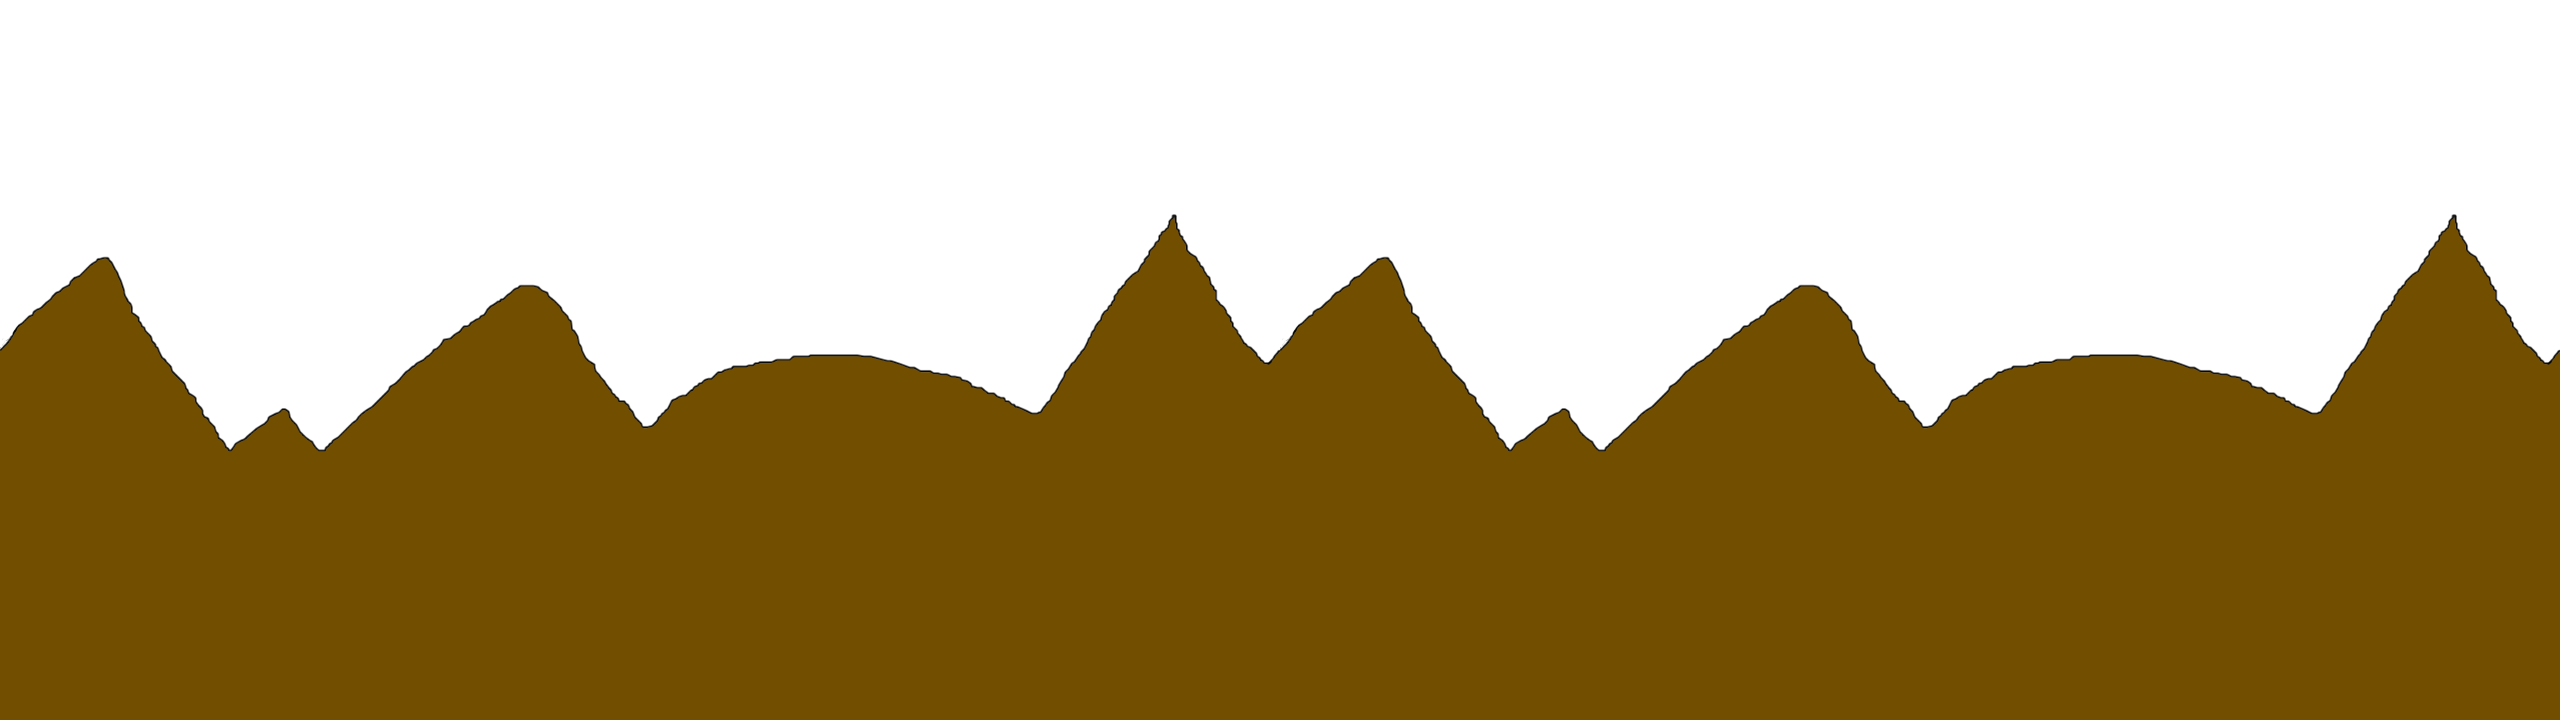
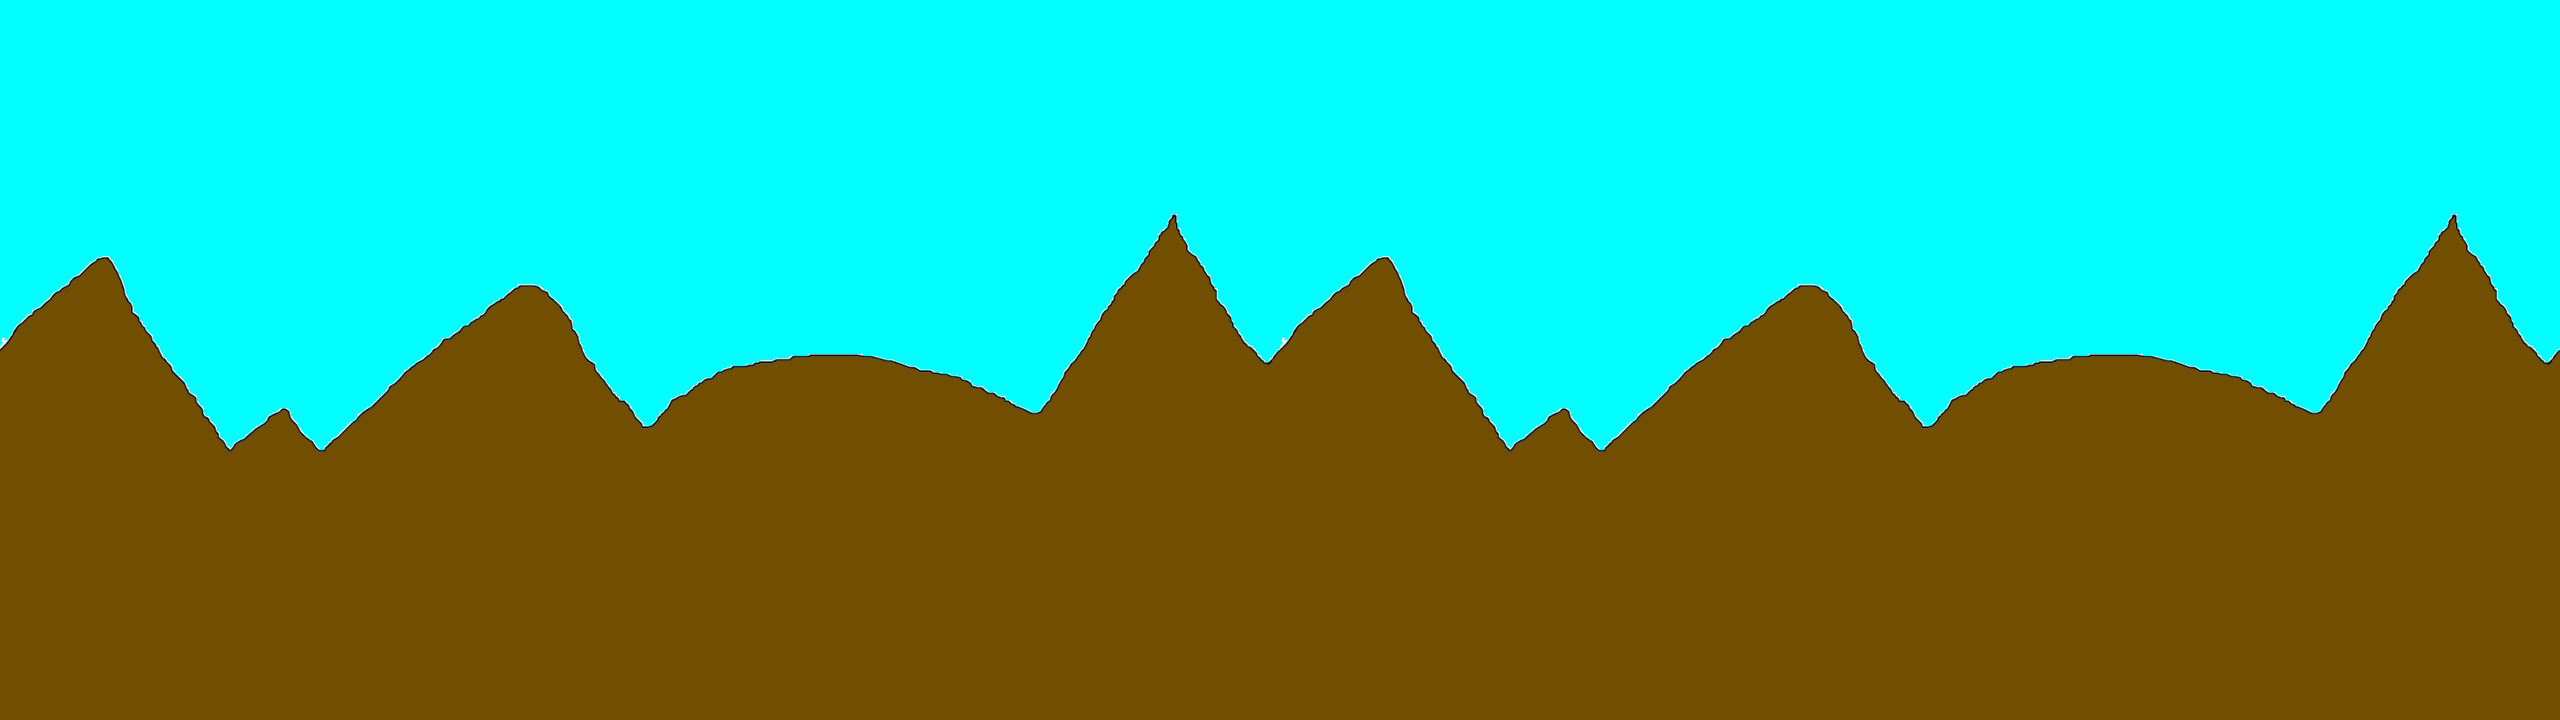
making proggress

diff --git a/sdl2test/Source.cpp b/sdl2test/Source.cpp
@@ -1,11 +1,14 @@
 #include <string>
 #include <iostream>
+#include <windows.h>
+#include <experimental/filesystem>
 #include <SDL.h>
 #include <SDL_image.h>
 #include <math.h>
+#include <vector>
 #include "res_path.h"
 #include "cleanup.h"
-
+namespace fs = std::experimental::filesystem::v1;
 using namespace std;
 
 Uint32 get_pixel32(SDL_Surface *surface, int x, int y)
@@ -35,7 +38,7 @@ SDL_Surface *ScaleSurface(SDL_Surface *Surface, Uint16 Width, Uint16 Height)
 	SDL_Surface *_ret = SDL_CreateRGBSurface(Surface->flags, Width, Height, Surface->format->BitsPerPixel,
 		Surface->format->Rmask, Surface->format->Gmask, Surface->format->Bmask, Surface->format->Amask);
 
-	double    _stretch_factor_x = (static_cast<double>(Width) / (static_cast<double>(Surface->w) / 2)),
+	double    _stretch_factor_x = (static_cast<double>(Width) / (static_cast<double>(Surface->w))),
 		_stretch_factor_y = (static_cast<double>(Height) / static_cast<double>(Surface->h));
 
 	for (Sint32 y = 0; y < Surface->h; y++) {
@@ -48,6 +51,9 @@ SDL_Surface *ScaleSurface(SDL_Surface *Surface, Uint16 Width, Uint16 Height)
 			}
 		}
 	}
+
+	SDL_SetColorKey( _ret , SDL_TRUE, SDL_MapRGB(_ret->format, 0, 0xFF, 0xFF));
+
 	return _ret;
 }
 
@@ -110,10 +116,72 @@ void renderTexture(SDL_Texture *tex, SDL_Renderer *ren, int x, int y, SDL_Rect *
 	renderTexture(tex, ren, dst, clip);
 }
 
+string path(void) {
+
+	wchar_t buffer[MAX_PATH];
+	GetModuleFileName(NULL, buffer, MAX_PATH);
+	wstring wstr(buffer);
+	string str(wstr.begin(), wstr.end());
+
+	using convert_typeX = codecvt_utf8<wchar_t>;
+	wstring_convert<convert_typeX, wchar_t> converterX;
+
+	string exepath = converterX.to_bytes(wstr);
+	exepath.erase(exepath.end() - 12, exepath.end());
+	return exepath;
+
+}
+
+
 int main(int, char**) {
 
 	int S_W;
 	int S_H;
+	//iW and iH are the clip width and height
+	//We'll be drawing only clips so get a center position for the w/h of a clip
+	int iW = 100, iH = 100;
+	float xPlayer = 0; //The initial x position
+	float yPlayer = S_H - iH; //The initial height is the floor
+	float Velx = 0;
+	float Vely = 0;
+	float g = -0.80;
+	bool Leftpress = 0;
+	bool Rightpress = 0;
+	bool Rightpressaux = 0;
+	bool Leftpressaux = 0;
+	bool Movingright = 0;
+	bool Movingleft = 0;
+	int jumpnumber = 0;
+
+	// Make this a vector...
+	int Cloudsloop = 0;
+	int Mountainsloop = 0;
+	int Grassloop = 0;
+	int Sunloop = 0;	
+	float xBase = 0;
+	float yBase = 0;
+	float xMountains = 0;
+	float yMountains = 0;
+	float xClouds = 0;
+	float yClouds = 0;
+	float xSun = 0;
+	float ySun = 0;
+	float xGrass = 0;
+	float yGrass = 0;
+	float xLimit = 3.5;
+	float VelNomx = 3.5;
+
+	string opath = path();
+	string respath = (opath + "res");
+	string files[5];
+
+	cout << respath << endl;
+	vector <string> resfiles;
+	vector <string> resfilesname;
+
+	for (auto & p : fs::directory_iterator(respath)) {
+		resfiles.push_back(p.path().string());
+	}
 
 	cout << "Input the screen width: ";
 	cin >> S_W;
@@ -143,8 +211,8 @@ int main(int, char**) {
 		SDL_Quit();
 		return 1;
 	}
-	SDL_Texture *player = loadTexture("C:/Users/juanp/Source/Repos/sdl2test/sdl2test/image.png", renderer);
-	SDL_Texture *Sun = loadTexture("C:/Users/juanp/Source/Repos/sdl2test/sdl2test/Sun.png", renderer);
+	
+	/* 	SDL_Texture *Sun = loadTexture("C:/Users/juanp/Source/Repos/sdl2test/sdl2test/Sun.png", renderer);
 	SDL_Texture *Clouds = loadTexture("C:/Users/juanp/Source/Repos/sdl2test/sdl2test/Clouds.png", renderer);
 	SDL_Texture *Base = loadTexture("C:/Users/juanp/Source/Repos/sdl2test/sdl2test/Base.png", renderer);
 	SDL_Texture *Mountains = loadTexture("C:/Users/juanp/Source/Repos/sdl2test/sdl2test/Mountains.png", renderer);
@@ -154,39 +222,28 @@ int main(int, char**) {
 		IMG_Quit();
 		SDL_Quit();
 		return 1;
+	} */
+
+	for (string x : resfiles) {
+		cout << x << endl;
+		resfilesname.push_back(x.erase(0, (x.find("%"))+1));
+	}
+	for (string x : resfilesname) {
+		cout << x << endl;
 	}
 
-	//iW and iH are the clip width and height
-	//We'll be drawing only clips so get a center position for the w/h of a clip
-	int iW = 100, iH = 100;
-	float xPlayer = 0; //The initial x position
-	float yPlayer = S_H - iH; //The initial height is the floor
-	float Velx = 0;
-	float Vely = 0;
-	float g = -0.80;
-	int jumpnumber = 0;
-	int Cloudsloop = 0;
-	int Mountainsloop = 0;
-	int Grassloop = 0;
-	int Sunloop = 0;
-	bool Leftpress = 0;
-	bool Rightpress = 0;
-	bool Rightpressaux = 0;
-	bool Leftpressaux = 0;
-	bool Movingright = 0;
-	bool Movingleft = 0;
-	float xBase = 0;
-	float yBase = 0;
-	float xMountains = 0;
-	float yMountains = 0;
-	float xClouds = 0;
-	float yClouds = 0;
-	float xSun = 0;
-	float ySun = 0;
-	float xGrass = 0;
-	float yGrass = 0;
-	float xLimit = 3.5;
-	float VelNomx = 3.5;
+	SDL_Surface* playersurfaceopt = ScaleSurface(loadSurface("C:/Users/juanp/Source/Repos/sdl2test/sdl2test/player.png"), S_W, S_H);
+	SDL_Surface* sunsurfaceopt = ScaleSurface(loadSurface("C:/Users/juanp/Source/Repos/sdl2test/sdl2test/Sun.png"), S_W, S_H);
+	SDL_Surface* basesurfaceopt = ScaleSurface(loadSurface("C:/Users/juanp/Source/Repos/sdl2test/sdl2test/Base.png"), S_W, S_H);
+	SDL_Surface* cloudssurfaceopt = ScaleSurface(loadSurface("C:/Users/juanp/Source/Repos/sdl2test/sdl2test/Clouds.png"), S_W, S_H);
+	SDL_Surface* grasssurfaceopt = ScaleSurface(loadSurface("C:/Users/juanp/Source/Repos/sdl2test/sdl2test/Grass.png"), S_W, S_H);
+	SDL_Surface* mountainssurfaceopt = ScaleSurface(loadSurface("C:/Users/juanp/Source/Repos/sdl2test/sdl2test/Mountains.png"), S_W, S_H);
+	SDL_Texture* playertextopt = SDL_CreateTextureFromSurface(renderer, playersurfaceopt);
+	SDL_Texture* suntextureopt = SDL_CreateTextureFromSurface(renderer, sunsurfaceopt);
+	SDL_Texture* basetextureopt = SDL_CreateTextureFromSurface(renderer, basesurfaceopt);
+	SDL_Texture* cloudstextureopt = SDL_CreateTextureFromSurface(renderer, cloudssurfaceopt);
+	SDL_Texture* grasstextureopt = SDL_CreateTextureFromSurface(renderer, grasssurfaceopt);
+	SDL_Texture* mountainstextureopt = SDL_CreateTextureFromSurface(renderer, mountainssurfaceopt);
 
 	//Setup the clips for our image
 	SDL_Rect clips[4];
@@ -201,18 +258,6 @@ int main(int, char**) {
 	//Specify a default clip to start with
 	int useClip = 0;
 
-	SDL_Surface* imagesurfaceopt = ScaleSurface(loadSurface("C:/Users/juanp/Source/Repos/sdl2test/sdl2test/image.png"), S_W, S_H);
-	SDL_Surface* sunsurfaceopt = ScaleSurface(loadSurface("C:/Users/juanp/Source/Repos/sdl2test/sdl2test/Sun.png"), S_W, S_H);
-	SDL_Surface* basesurfaceopt = ScaleSurface(loadSurface("C:/Users/juanp/Source/Repos/sdl2test/sdl2test/Base.png"), S_W, S_H);
-	SDL_Surface* cloudssurfaceopt = ScaleSurface(loadSurface("C:/Users/juanp/Source/Repos/sdl2test/sdl2test/Clouds.png"), S_W, S_H);
-	SDL_Surface* grasssurfaceopt = ScaleSurface(loadSurface("C:/Users/juanp/Source/Repos/sdl2test/sdl2test/Grass.png"), S_W, S_H);
-	SDL_Surface* mountainssurfaceopt = ScaleSurface(loadSurface("C:/Users/juanp/Source/Repos/sdl2test/sdl2test/Mountains.png"), S_W, S_H);
-	SDL_Texture* imagetextureopt = SDL_CreateTextureFromSurface(renderer, imagesurfaceopt);
-	SDL_Texture* suntextureopt = SDL_CreateTextureFromSurface(renderer, sunsurfaceopt);
-	SDL_Texture* basetextureopt = SDL_CreateTextureFromSurface(renderer, basesurfaceopt);
-	SDL_Texture* cloudstextureopt = SDL_CreateTextureFromSurface(renderer, cloudssurfaceopt);
-	SDL_Texture* grasstextureopt = SDL_CreateTextureFromSurface(renderer, grasssurfaceopt);
-	SDL_Texture* mountainstextureopt = SDL_CreateTextureFromSurface(renderer, mountainssurfaceopt);
 
 	SDL_Event e;
 	bool quit = false;
@@ -227,7 +272,7 @@ int main(int, char**) {
 			if (e.type == SDL_KEYDOWN) {
 				switch (e.key.keysym.sym) {
 				case SDLK_SPACE:
-					Vely = -20;
+					Vely = - 20;
 					break;
 				case SDLK_LEFT:
 					Leftpress = 1;
@@ -332,13 +377,13 @@ int main(int, char**) {
 		renderTexture(mountainstextureopt, renderer, (xMountains + S_W), yMountains);
 		renderTexture(grasstextureopt, renderer, xGrass, yGrass);
 		renderTexture(grasstextureopt, renderer, (xGrass + S_W), yGrass);
-		renderTexture(player, renderer, xPlayer, yPlayer, &clips[useClip]);
+		renderTexture(playertextopt, renderer, xPlayer, yPlayer, &clips[useClip]);
 		//Update the screen
 		SDL_RenderPresent(renderer);
 
 	}
 	//Clean up
-	cleanup(player, Sun, Clouds, Base, Mountains, Grass, renderer, window);
+	cleanup(playertextopt, suntextureopt, sunsurfaceopt, cloudssurfaceopt, cloudstextureopt, basesurfaceopt, basetextureopt, mountainssurfaceopt, mountainstextureopt, grasssurfaceopt, grasstextureopt, renderer, window);
 	IMG_Quit();
 	SDL_Quit();
 
